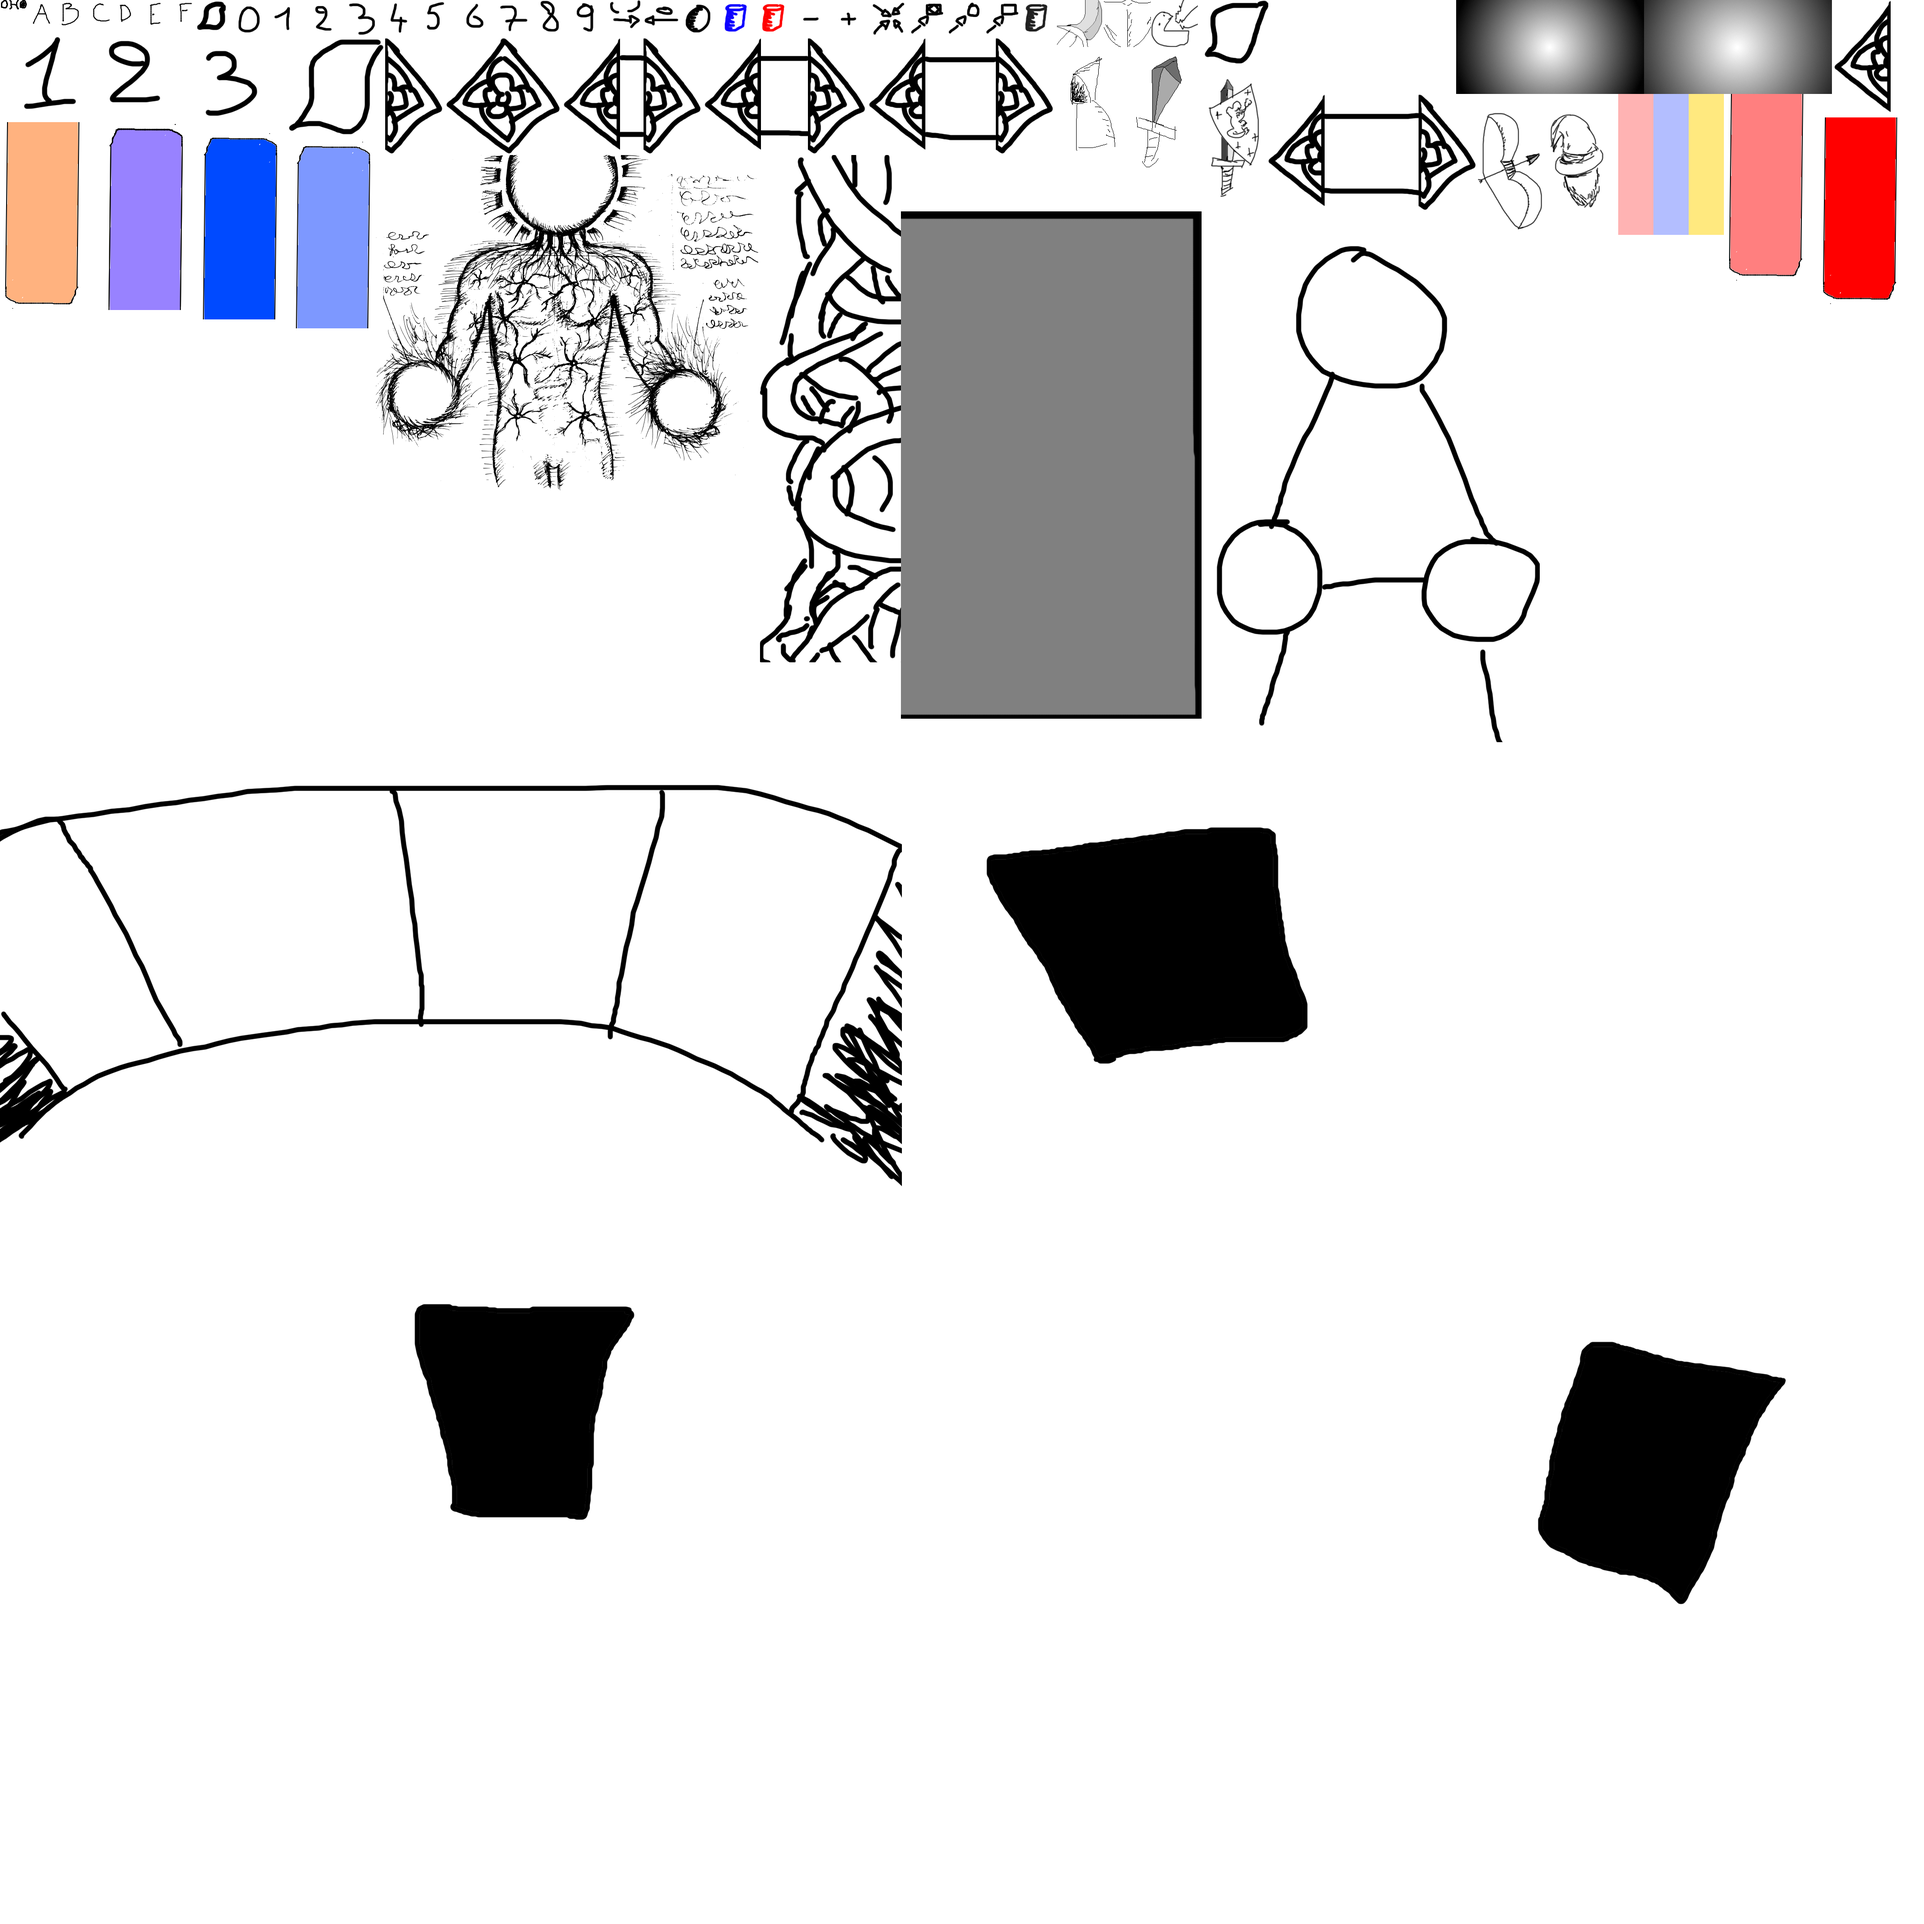
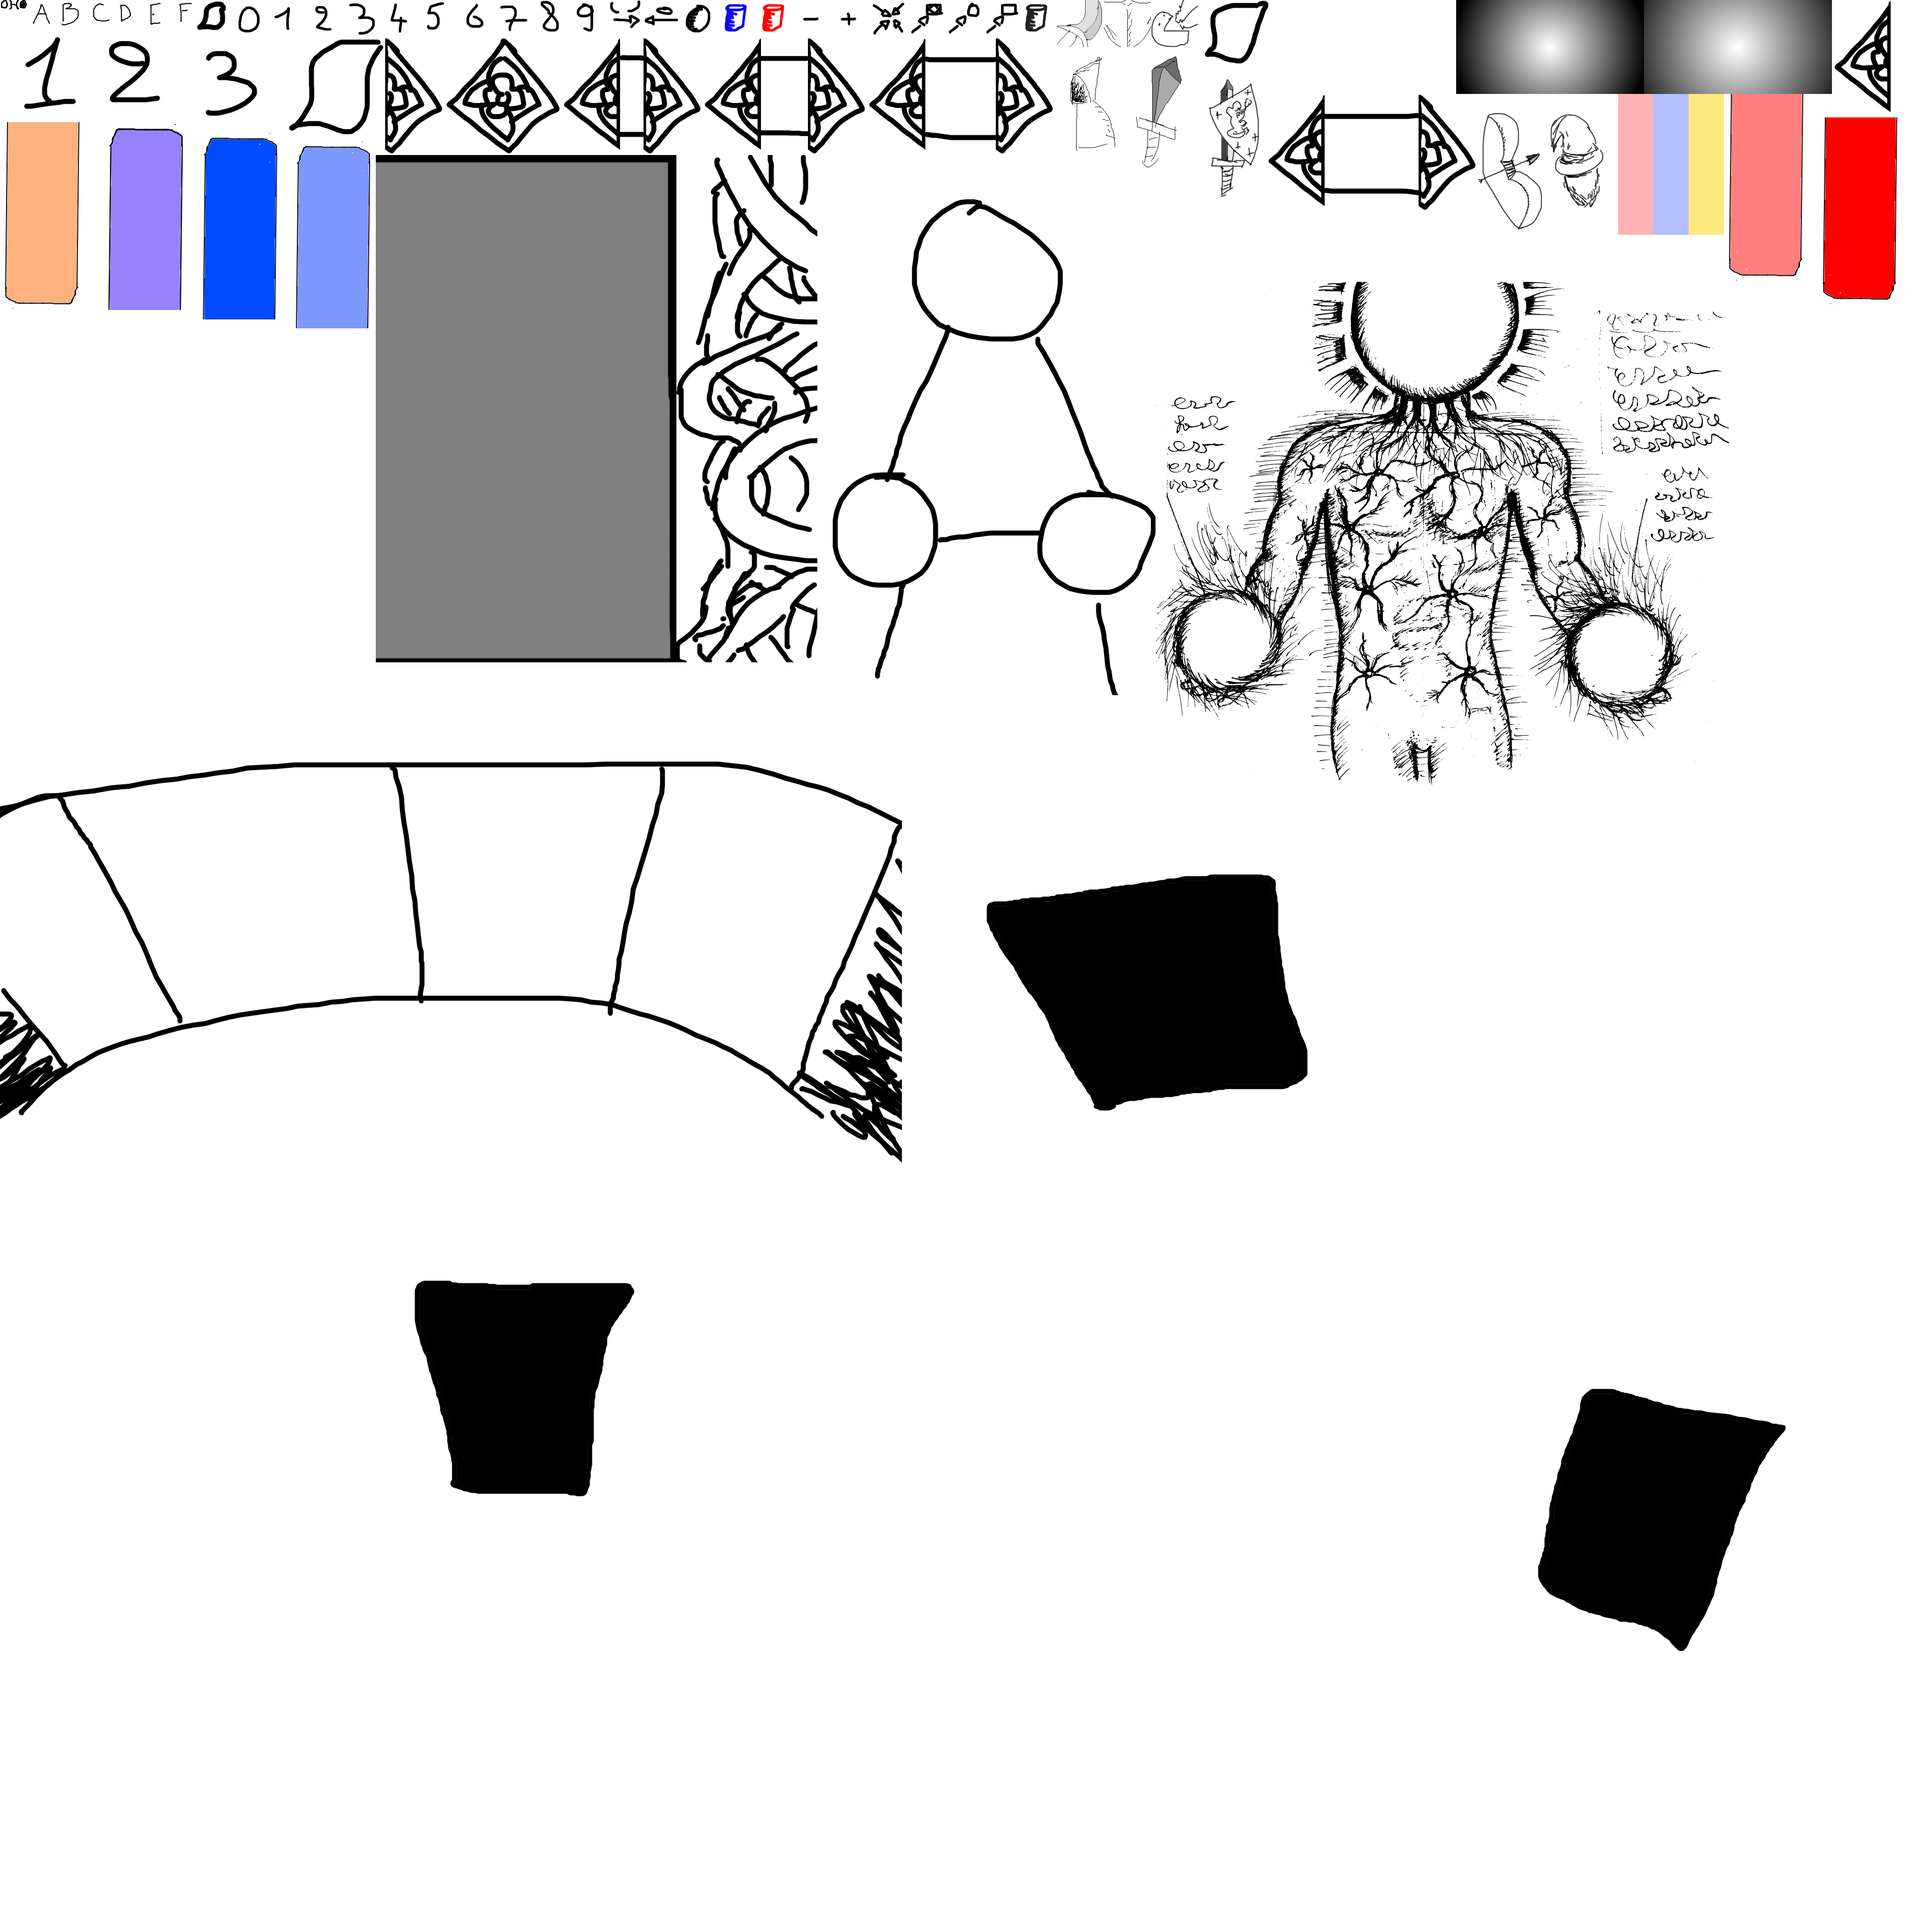
change bg/add graph colors

diff --git a/src/app/data/gen/atlas1.ts b/src/app/data/gen/atlas1.ts
@@ -385,51 +385,51 @@ export type Atlas1 = {
         "width": 200,
         "height": 400
     },
-    "select3_f.png": {
+    "box.png": {
         "x": 800,
         "y": 330,
-        "width": 818,
-        "height": 714
+        "width": 640,
+        "height": 1080
     },
     "menu_bar.png": {
-        "x": 1618,
+        "x": 1440,
         "y": 330,
         "width": 300,
         "height": 1080
     },
-    "box.png": {
-        "x": 1918,
-        "y": 450,
-        "width": 640,
+    "select3.png": {
+        "x": 1740,
+        "y": 400,
+        "width": 720,
         "height": 1080
     },
-    "select3.png": {
-        "x": 2558,
-        "y": 500,
-        "width": 720,
+    "select3_f.png": {
+        "x": 2460,
+        "y": 600,
+        "width": 1221,
         "height": 1080
     },
     "sel_act1.png": {
         "x": 0,
-        "y": 1530,
+        "y": 1480,
         "width": 1920,
         "height": 1080
     },
     "sel_level1.png": {
         "x": 1920,
-        "y": 1580,
+        "y": 1680,
         "width": 1920,
         "height": 1080
     },
     "sel_level2.png": {
         "x": 0,
-        "y": 2610,
+        "y": 2560,
         "width": 1920,
         "height": 1080
     },
     "sel_level3.png": {
         "x": 1920,
-        "y": 2660,
+        "y": 2760,
         "width": 1920,
         "height": 1080
     }
@@ -820,51 +820,51 @@ export const atlas1: Atlas1 = {
         "width": 200,
         "height": 400
     },
-    "select3_f.png": {
+    "box.png": {
         "x": 800,
         "y": 330,
-        "width": 818,
-        "height": 714
+        "width": 640,
+        "height": 1080
     },
     "menu_bar.png": {
-        "x": 1618,
+        "x": 1440,
         "y": 330,
         "width": 300,
         "height": 1080
     },
-    "box.png": {
-        "x": 1918,
-        "y": 450,
-        "width": 640,
+    "select3.png": {
+        "x": 1740,
+        "y": 400,
+        "width": 720,
         "height": 1080
     },
-    "select3.png": {
-        "x": 2558,
-        "y": 500,
-        "width": 720,
+    "select3_f.png": {
+        "x": 2460,
+        "y": 600,
+        "width": 1221,
         "height": 1080
     },
     "sel_act1.png": {
         "x": 0,
-        "y": 1530,
+        "y": 1480,
         "width": 1920,
         "height": 1080
     },
     "sel_level1.png": {
         "x": 1920,
-        "y": 1580,
+        "y": 1680,
         "width": 1920,
         "height": 1080
     },
     "sel_level2.png": {
         "x": 0,
-        "y": 2610,
+        "y": 2560,
         "width": 1920,
         "height": 1080
     },
     "sel_level3.png": {
         "x": 1920,
-        "y": 2660,
+        "y": 2760,
         "width": 1920,
         "height": 1080
     }

diff --git a/src/app/screens/level/screen.ts b/src/app/screens/level/screen.ts
@@ -8,6 +8,15 @@ import { cardMap } from "../../data/cardMap";
 import { moveCard, moveCardToFirstFree, loadLevel, newExecLevel, levelStats } from "../level/events";
 import { filterUndefined } from "../../util/util";
 
+const colors =
+  [
+    0x469990,
+    0xfabebe,
+    0x42d4f4,
+    0x800000,
+    0x800000,
+  ]
+
 export class LevelScreen {
   boxPool: Pool<BoxData, {}>
   box: Phaser.Sprite | undefined
